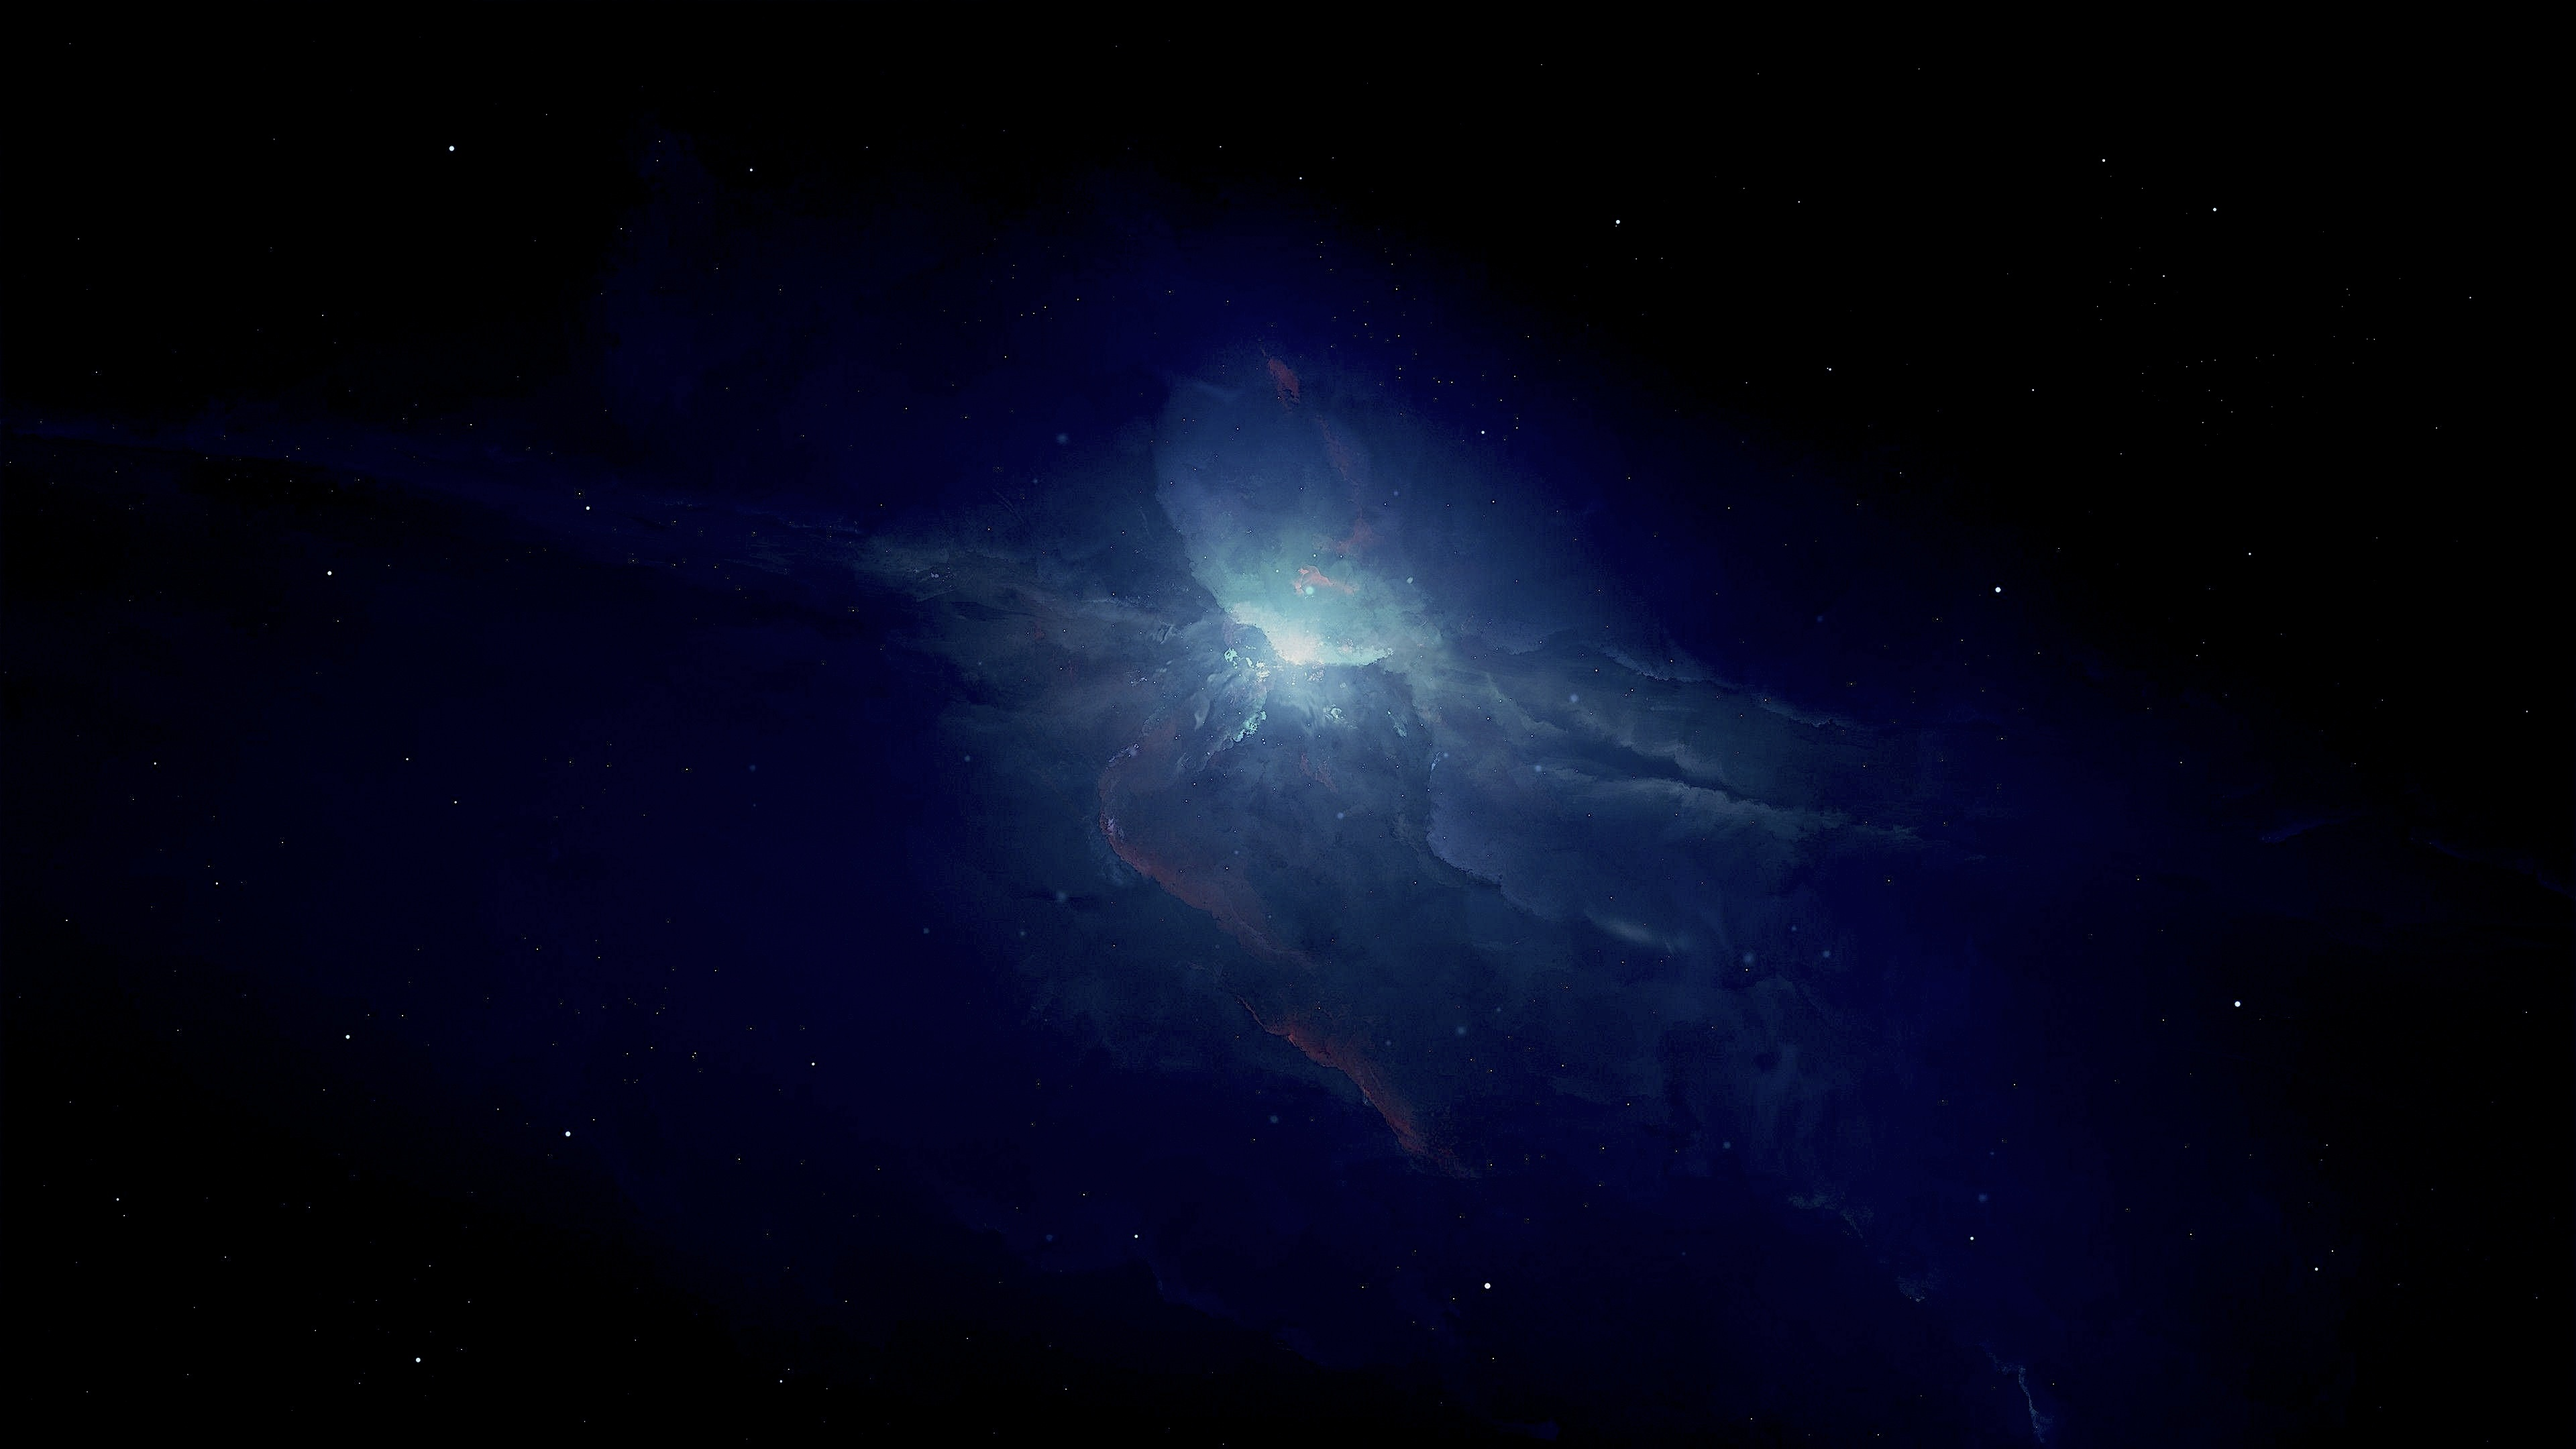
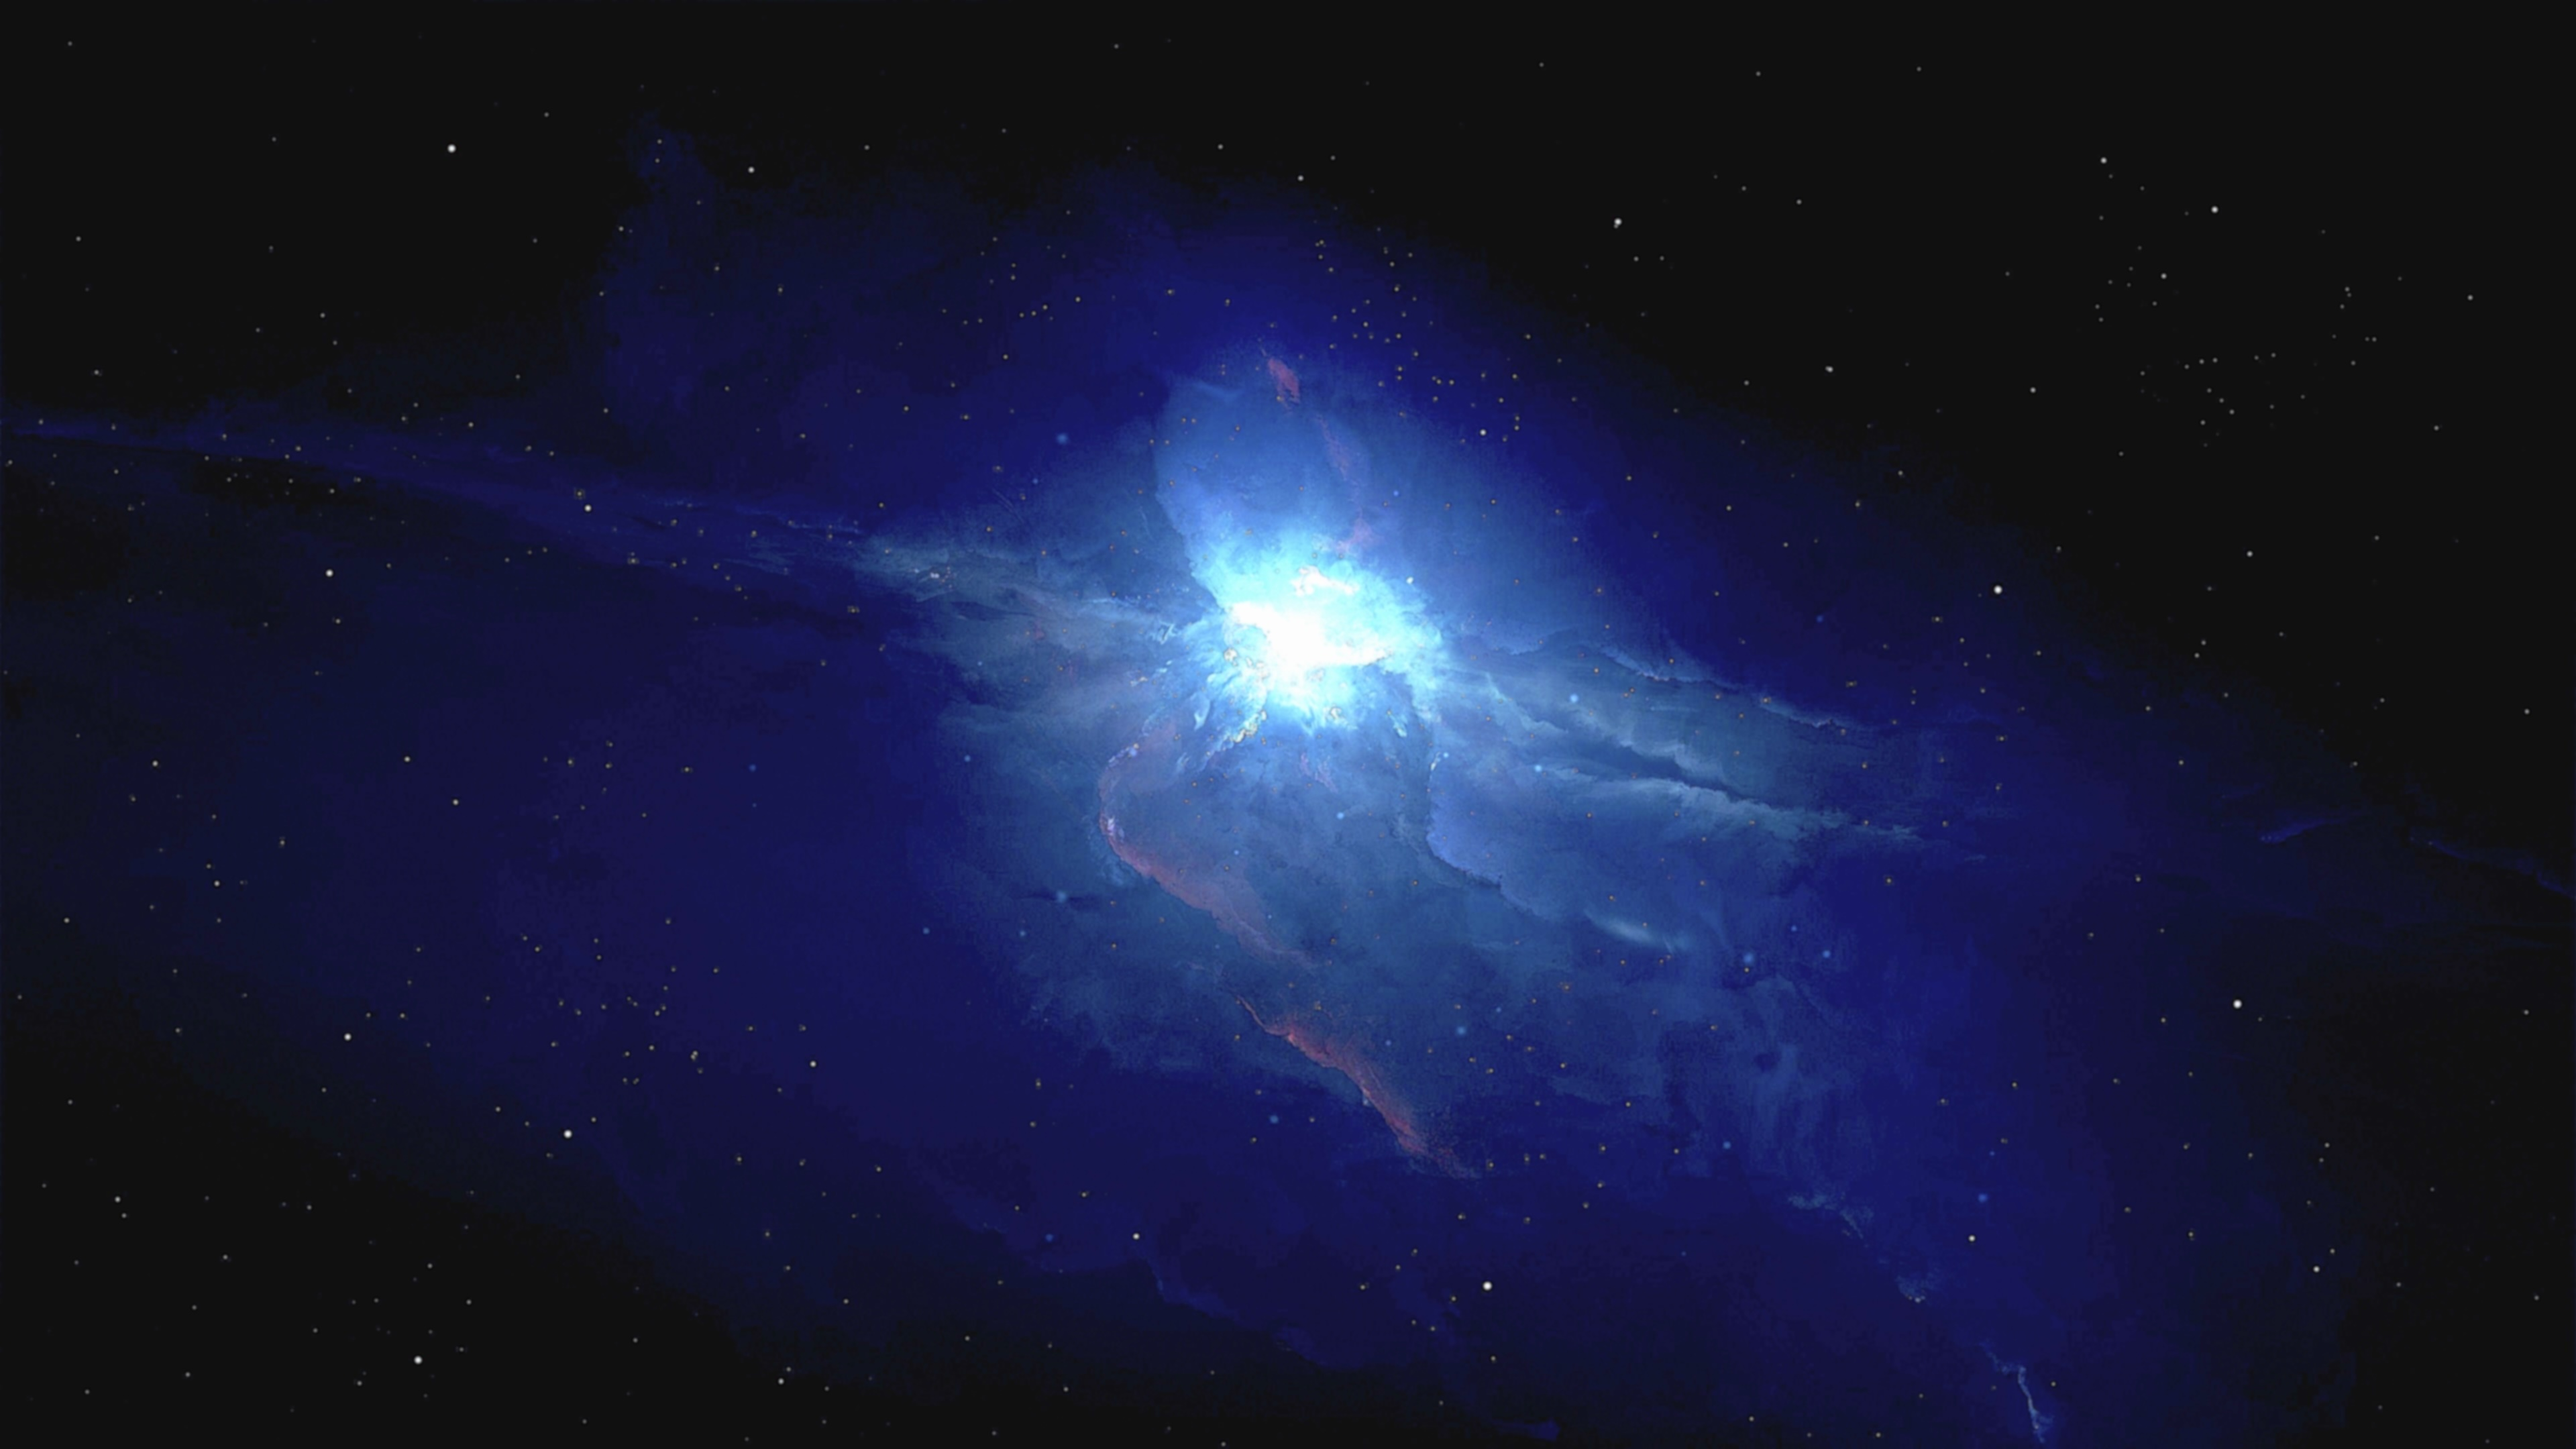
added highlights

diff --git a/main.js b/main.js
@@ -1,6 +1,30 @@
+// Handle mouse clicks for objects
+function onMouseClick(event) {
+  mouse.x = (event.clientX / window.innerWidth) * 2 - 1;
+  mouse.y = -(event.clientY / window.innerHeight) * 2 + 1;
+
+  raycaster.setFromCamera(mouse, camera);
+
+  // Check intersections for clicks
+  const intersects = raycaster.intersectObjects(orbitPivot.children); // Check orbitPivot's children
+  if (intersects.length > 0) {
+    const clickedObject = intersects[0].object;
+
+    // Display a popup message with the object's name
+    alert(`Clicked on ${clickedObject.name}`);
+  }
+}
+
+// Attach click event listener
+window.addEventListener('click', onMouseClick);
+
+// Updated Full Code
 import './style.css';
 import * as THREE from 'three';
 import { OrbitControls } from 'three/examples/jsm/controls/OrbitControls.js';
+import { EffectComposer } from 'three/examples/jsm/postprocessing/EffectComposer.js';
+import { RenderPass } from 'three/examples/jsm/postprocessing/RenderPass.js';
+import { OutlinePass } from 'three/examples/jsm/postprocessing/OutlinePass.js';
 
 const scene = new THREE.Scene();
 const camera = new THREE.PerspectiveCamera(75, window.innerWidth / window.innerHeight, 0.1, 1000);
@@ -13,10 +37,10 @@ renderer.setSize(window.innerWidth, window.innerHeight);
 camera.position.setZ(30);
 
 // Lights
-const pointLight = new THREE.PointLight(0xffffff, 2);
+const pointLight = new THREE.PointLight(0xffffff, 5); // Adjusted for more brightness
 pointLight.position.set(20, 20, 20);
 
-const ambLight = new THREE.AmbientLight(0xffffff, 0.2);
+const ambLight = new THREE.AmbientLight(0xffffff, 0.5); // Adjusted for softer overall brightness
 scene.add(pointLight, ambLight);
 
 // Helpers
@@ -29,7 +53,6 @@ const controls = new OrbitControls(camera, renderer.domElement);
 
 // Array to store stars and their initial positions
 const stars = [];
-
 function addStar() {
   const geometry = new THREE.SphereGeometry(0.125);
   const material = new THREE.MeshStandardMaterial({
@@ -51,7 +74,6 @@ function addStar() {
 
   scene.add(star);
 }
-
 Array(300).fill().forEach(addStar);
 
 // Background Texture
@@ -177,14 +199,30 @@ spade.name = 'Spade';
 spade.position.set(0, 0, -30);
 orbitPivot.add(spade);
 
-// Raycaster for detecting clicks
-let hoveredObject = null; // To track the currently hovered object
+// Composer and OutlinePass setup
+const composer = new EffectComposer(renderer);
+const renderPass = new RenderPass(scene, camera);
+composer.addPass(renderPass);
 
-// Raycaster for detecting hover and clicks
-const raycaster = new THREE.Raycaster();
-const mouse = new THREE.Vector2();
+const outlinePass = new OutlinePass(
+  new THREE.Vector2(window.innerWidth, window.innerHeight),
+  scene,
+  camera
+);
+composer.addPass(outlinePass);
+
+outlinePass.edgeStrength = 10; // Outline thickness
+outlinePass.edgeGlow = 0.5;    // Glow effect
+outlinePass.edgeThickness = 1.0; // Edge thickness
+outlinePass.pulsePeriod = 0;    // No pulsing
+outlinePass.visibleEdgeColor.set('#ffff00'); // Yellow outline
+outlinePass.hiddenEdgeColor.set('#000000'); // Black outline
 
 // Handle mouse movement for hover highlighting
+const raycaster = new THREE.Raycaster();
+const mouse = new THREE.Vector2();
+let hoveredObject = null;
+
 function onMouseMove(event) {
   mouse.x = (event.clientX / window.innerWidth) * 2 - 1;
   mouse.y = -(event.clientY / window.innerHeight) * 2 + 1;
@@ -198,57 +236,16 @@ function onMouseMove(event) {
 
     // Highlight the object only if it's a new hover
     if (hoveredObject !== object) {
-      // Reset the previously hovered object
-      if (hoveredObject) {
-        hoveredObject.material.emissiveIntensity = hoveredObject.material.originalEmissiveIntensity || 1;
-        hoveredObject.material.color.set(hoveredObject.material.originalColor || 0xffffff);
-      }
-
-      // Highlight the new object
       hoveredObject = object;
-      hoveredObject.material.originalEmissiveIntensity = hoveredObject.material.emissiveIntensity;
-      hoveredObject.material.emissiveIntensity = 5; // Highlight intensity
-      hoveredObject.material.originalColor = hoveredObject.material.color.getHex();
-      hoveredObject.material.color.set(0xffff00); // Highlight color (yellow)
+      outlinePass.selectedObjects = [hoveredObject];
     }
-  } else if (hoveredObject) {
-    // Reset if no object is hovered
-    hoveredObject.material.emissiveIntensity = hoveredObject.material.originalEmissiveIntensity || 1;
-    hoveredObject.material.color.set(hoveredObject.material.originalColor || 0xffffff);
+  } else {
     hoveredObject = null;
+    outlinePass.selectedObjects = [];
   }
 }
 
-// Handle mouse clicks
-function onMouseClick(event) {
-  mouse.x = (event.clientX / window.innerWidth) * 2 - 1;
-  mouse.y = -(event.clientY / window.innerHeight) * 2 + 1;
-
-  raycaster.setFromCamera(mouse, camera);
-
-  // Check intersections for clicks
-  const intersects = raycaster.intersectObjects(orbitPivot.children);
-  if (intersects.length > 0) {
-    const clickedObject = intersects[0].object;
-    console.log(`You clicked on ${clickedObject.name}`);
-    switch (clickedObject.name) {
-      case 'Happy':
-        alert('You clicked on the Smile Sphere!');
-        break;
-      case 'Heart':
-        alert('You clicked on the Heart!');
-        break;
-      case 'Crown':
-        alert('You clicked on the Crown!');
-        break;
-      case 'Spade':
-        alert('You clicked on the Spade!');
-        break;
-    }
-  }
-}
-
-// Attach event listeners
+// Attach hover and click event listeners
 window.addEventListener('mousemove', onMouseMove);
 window.addEventListener('click', onMouseClick);
 
@@ -275,7 +272,7 @@ function animate() {
 
   torus.rotation.y += 0.01;
   controls.update();
-  renderer.render(scene, camera);
+  composer.render();
 }
 
 function moveCamera() {
